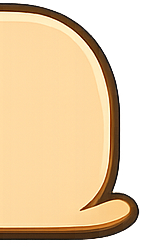
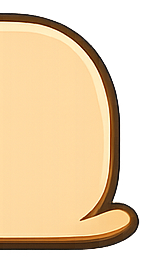
auto-commit for 4fcd5234-1435-4335-b747-ea26f7339c3f

diff --git a/frontend/src/index.css b/frontend/src/index.css
@@ -329,54 +329,59 @@ body.cx-no-avatar-frames .cx-premium-ring::before {
   max-width: 100%;
   vertical-align: bottom;
   filter: drop-shadow(0 4px 10px rgba(0,0,0,0.35));
+  line-height: 0; /* prevent extra vertical space from inline whitespace */
 }
 .cx-bubble-cap-left,
-.cx-bubble-cap-right {
-  flex-shrink: 0;
+.cx-bubble-cap-right,
+.cx-bubble-cap-body {
   background-repeat: no-repeat;
   background-position: center;
   background-size: 100% 100%;
   align-self: stretch;
 }
+.cx-bubble-cap-left,
+.cx-bubble-cap-right {
+  flex-shrink: 0;
+}
 .cx-bubble-cap-body {
   background-repeat: repeat-x;
-  background-position: center;
   background-size: auto 100%;
   display: flex;
   align-items: center;
   justify-content: flex-start;
-  min-height: 100%;
   min-width: 0;
+  line-height: 1.15;
 }
 
-/* Capybara skin — height ~ 60px keeps the head readable. */
+/* Capybara skin */
 .cx-bubble-capybara {
-  height: 60px;
-  min-width: 130px;
+  height: 64px;
+  min-width: 140px;
 }
 .cx-bubble-capybara .cx-bubble-cap-left {
-  /* left asset: 249x258 → aspect ~0.965 (w/h) */
-  width: 58px;
+  /* left asset: 249x258 → aspect ~0.965 (w/h) → 64 * 0.965 ≈ 62 */
+  width: 62px;
 }
 .cx-bubble-capybara .cx-bubble-cap-body {
-  padding: 0 6px;
-  margin: 0 -6px; /* slight overlap to hide any seam */
+  /* Text area — keep clear of head (left) and tail (right) via padding. */
+  padding: 8px 20px 8px 6px;
   color: #4a2a10;
   font-weight: 700;
-  text-shadow: 0 1px 0 rgba(255,236,192,0.55);
-  min-height: 60px;
+  text-shadow: 0 1px 0 rgba(255,236,192,0.5);
 }
 .cx-bubble-capybara .cx-bubble-cap-body-text {
   max-width: 360px;
-  padding: 0 4px;
-  line-height: 1.15;
+  padding: 0;
+  line-height: 1.2;
   word-break: break-word;
   overflow-wrap: anywhere;
   font-size: 14px;
 }
 .cx-bubble-capybara .cx-bubble-cap-right {
-  /* right asset: 146x247 → aspect ~0.591 */
+  /* right asset: 146x259 → aspect ~0.564 → 64 * 0.564 ≈ 36 */
   width: 36px;
+  /* Overlap slightly onto the body so the tail sits under the text edge cleanly. */
+  margin-left: -6px;
 }
 
 .cx-txt-sparkle { animation: cx-txt-sparkle 2.4s ease-in-out infinite; }
